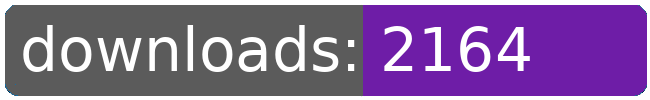
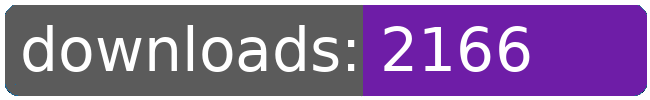
dl log written

Changed region(s): [[0.7692, 0.24, 0.8308, 0.72]]

diff --git a/README.md b/README.md
@@ -76,8 +76,8 @@
 		<td>2107</td>
 		<td>2129</td>
 		<td>2149</td>
-		<td>2164</td>
-		<td>+ 15</td>
+		<td>2166</td>
+		<td>+ 17</td>
 	</tr>
 	<tr>
 		<td>capturingpower</td>
@@ -142,8 +142,8 @@
 		<td>2171</td>
 		<td>2191</td>
 		<td>2212</td>
-		<td>2233</td>
-		<td>+ 21</td>
+		<td>2235</td>
+		<td>+ 23</td>
 	</tr>
 	<tr>
 		<td>obtainheron</td>
@@ -274,8 +274,8 @@
 		<td></td>
 		<td></td>
 		<td></td>
-		<td>49529</td>
-		<td>364</td>
+		<td>49533</td>
+		<td>368</td>
 	</tr>
 </table>
 </sub></sup>
@@ -432,8 +432,8 @@
 		<td>2171</td>
 		<td>2191</td>
 		<td>2212</td>
-		<td>2233</td>
-		<td>+ 21</td>
+		<td>2235</td>
+		<td>+ 23</td>
 	</tr>
 	<tr>
 		<td>capture.augen</td>
@@ -443,8 +443,8 @@
 		<td>2107</td>
 		<td>2129</td>
 		<td>2149</td>
-		<td>2164</td>
-		<td>+ 15</td>
+		<td>2166</td>
+		<td>+ 17</td>
 	</tr>
 	<tr>
 		<td>unlock.hai.reveal</td>
@@ -553,8 +553,8 @@
 		<td></td>
 		<td></td>
 		<td></td>
-		<td>49529</td>
-		<td>364</td>
+		<td>49533</td>
+		<td>368</td>
 	</tr>
 </table>
 </sub></sup>
